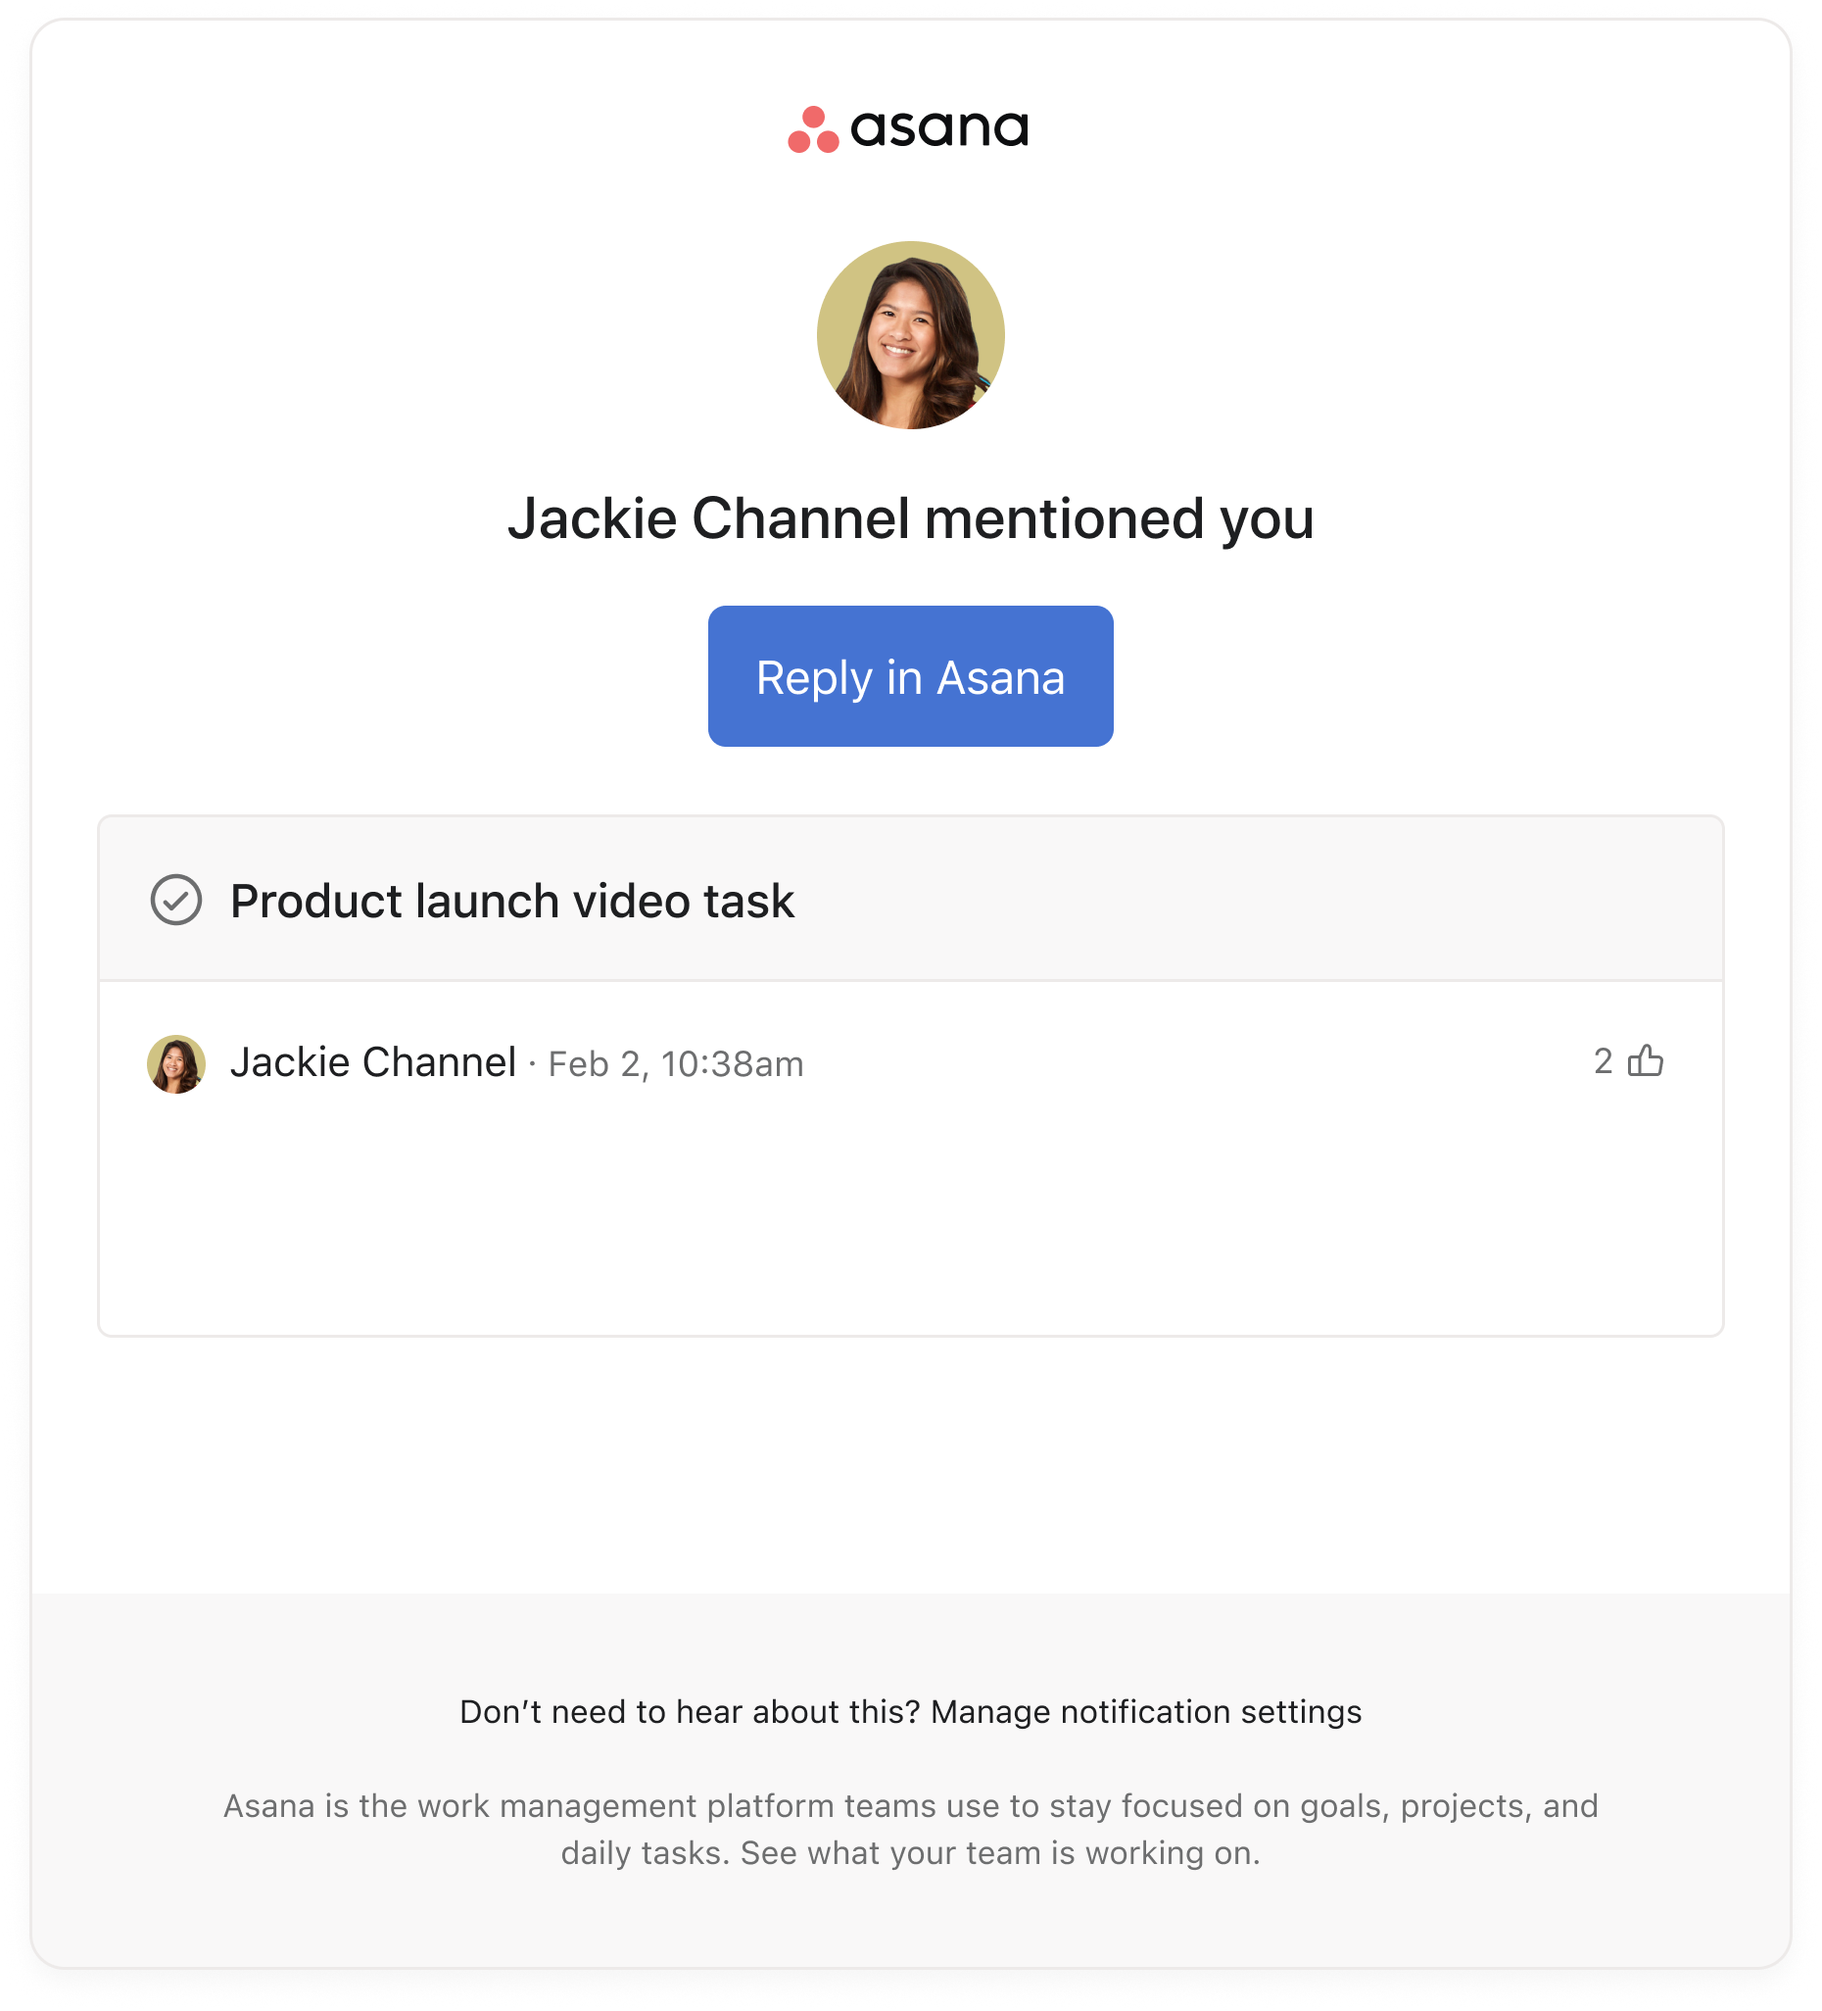
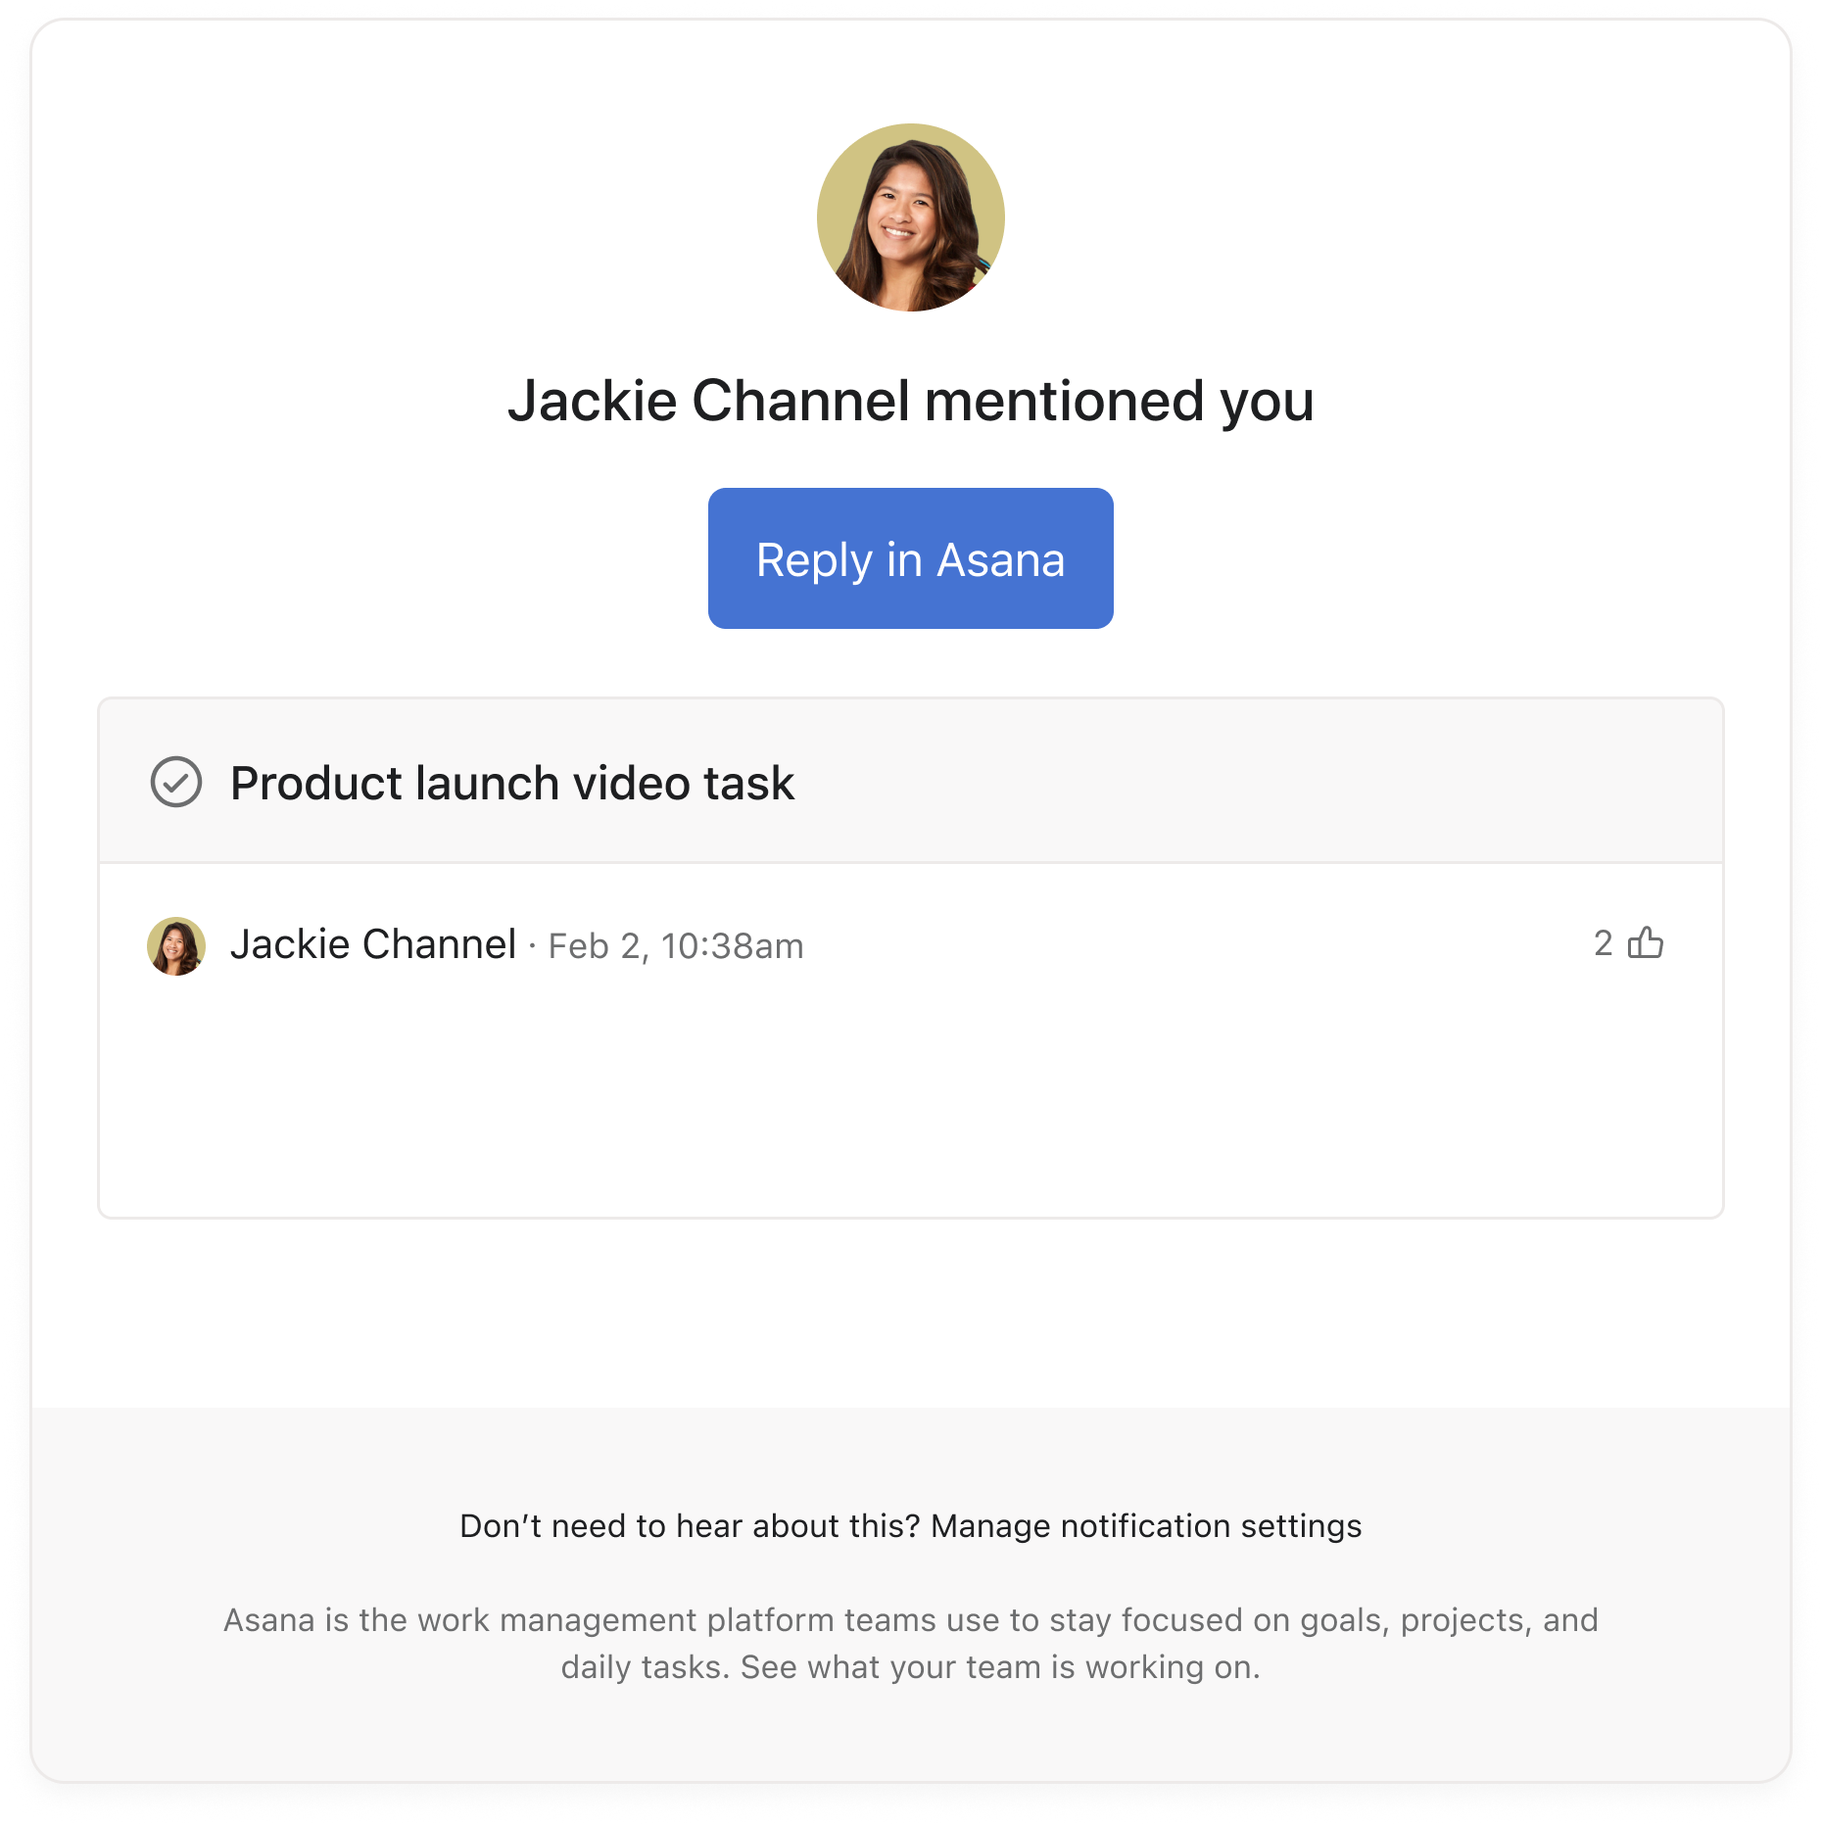
Updates mockup image

diff --git a/app/page.js b/app/page.js
@@ -88,7 +88,7 @@ export default function Home() {
         <div className="flex-col flex-none">
           <div className="relative flex flex-col items-center" width="600" height="724">
             <Image src="/Mention.png" alt="Mention" width="600" height="724" />
-            <div style={{top: "352px", left: "69px", width: "492px", color: "#6D6E6F", fontSize: "14px", lineHeight: "22px", border: "none"}} className="p-0 font-sans font-normal absolute w-full h-32 p-2 border border-gray-300 rounded">
+            <div style={{top: "314px", left: "68px", width: "492px", color: "#6D6E6F", fontSize: "14px", lineHeight: "22px", border: "none"}} className="p-0 font-sans font-normal absolute w-full h-32 p-2 border border-gray-300 rounded">
               {result[0] && <span>{result[0]}</span>}
               {result[1] && <span style={{color: "#3F6AC4"}}>{result[1]}</span>}
               {result[2] && <span>{result[2]}</span>}
